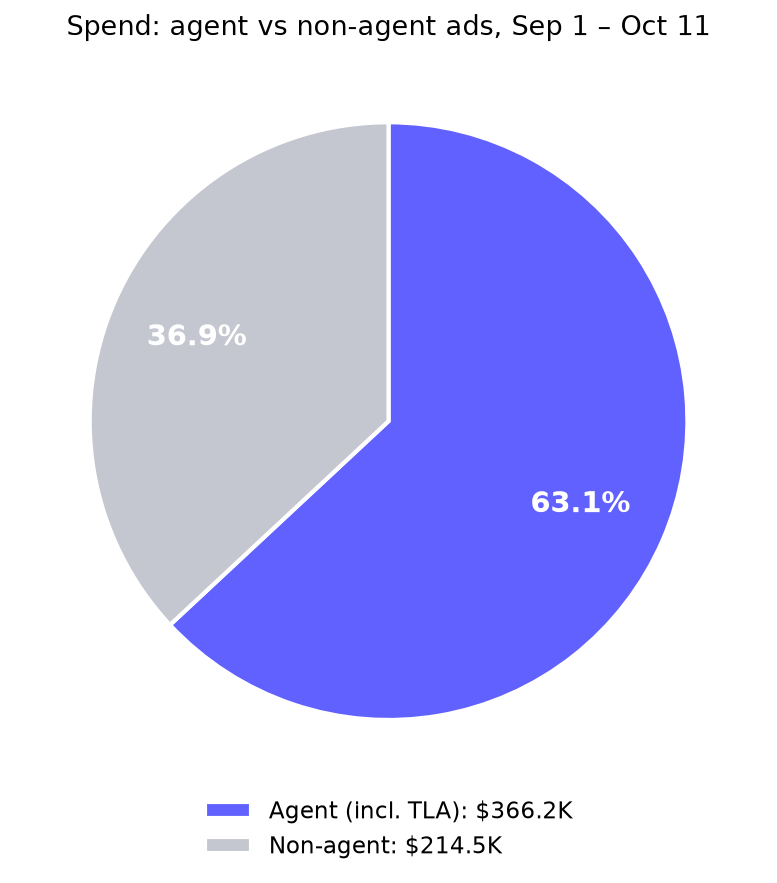
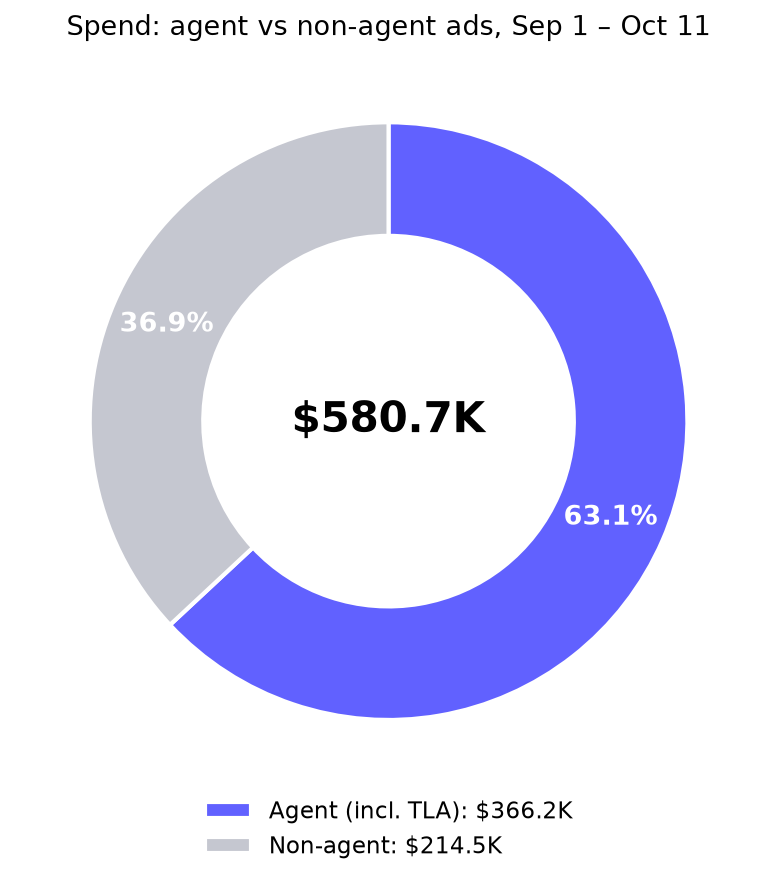
Creative analysis: slide layout per Miri's references

Changed region(s): [[0.1544, 0.2446, 0.8649, 0.7033]]

diff --git a/creative-analysis/index.html b/creative-analysis/index.html
@@ -1,36 +1,55 @@
-<!doctype html><html><head><meta charset="utf-8"><meta name="viewport" content="width=device-width,initial-scale=1"><title>WM LinkedIn creative analysis Sep 1 – Oct 11</title><style>body{font-family:Figtree,Poppins,Arial,sans-serif;max-width:1100px;margin:30px auto;padding:0 18px;color:#323338;background:#f6f7fb}h1{font-size:26px}h2{margin-top:36px;border-bottom:2px solid #6161FF;padding-bottom:6px}
-table{border-collapse:collapse;width:100%;background:#fff;margin:10px 0;font-size:14px}td,th{padding:8px 10px;border-bottom:1px solid #e6e9ef;text-align:right}td:first-child,th:first-child{text-align:left}th{background:#eef0ff}
-.note{background:#fff;border-left:4px solid #6161FF;padding:10px 14px;margin:12px 0;font-size:14px}.dim{color:#676879;font-size:12px}img.chart{max-width:100%;background:#fff;border-radius:8px;margin:8px 0}
-.grid{display:grid;grid-template-columns:repeat(auto-fill,minmax(250px,1fr));gap:14px}.card{background:#fff;border-radius:10px;overflow:hidden;box-shadow:0 1px 4px #0001}.card img{width:100%;display:block}.cb{padding:10px;font-size:13px}
-.kpi{display:flex;flex-wrap:wrap;gap:6px 12px;margin:6px 0}.cp{color:#555;font-size:12px;margin-top:6px}.two{display:grid;grid-template-columns:1fr 1fr;gap:14px}@media(max-width:700px){.two{grid-template-columns:1fr}}</style></head><body><h1>WM LinkedIn PRM: creative analysis, Sep 1 – Oct 11 2026</h1>
-<div class="dim">Source: LinkedIn in-platform (Funnel Gate get_insights, account 507706187), campaign groups 691891854 (US&CA), 1018304264 (GB), 1199048384 (Airtable). 599 creatives with spend. Hard SU = rule 18155186 Hard Signup_CAPI. QE = rule 18155194 (old CAPI QE). New CAPI events (28712650 / 30097442) not used. CPS = spend / Hard SU. Pulled Oct 12 2026.</div>
-<h2>1. Totals and by country</h2><table><tr><th></th><th>Spend</th><th>Hard SU</th><th>CPS</th><th>QE</th><th>CPQE</th><th>CPM</th></tr><tr><td>US (incl. US Airtable)</td><td>$400,500</td><td>1,475</td><td>$272</td><td>98</td><td>$4,087</td><td>$3.59</td></tr><tr><td>GB</td><td>$106,404</td><td>470</td><td>$226</td><td>43</td><td>$2,475</td><td>$3.74</td></tr><tr><td>CA</td><td>$14,640</td><td>42</td><td>$349</td><td>1</td><td>$14,640</td><td>$4.08</td></tr><tr><td>Airtable multi / EMEA</td><td>$59,150</td><td>23</td><td>$2,572</td><td>1</td><td>$59,150</td><td>$46.25</td></tr><tr><td><b>Total</b></td><td>$580,694</td><td>2,010</td><td>$289</td><td>143</td><td>$4,061</td><td>$4.01</td></tr></table>
-<div class="note">Airtable campaigns total (all geos, incl. the US Airtable ad sets counted inside US above): $69,025 · 27 Hard SU · CPS $2,556 · 1 QE.</div>
-<h2>2. Spend by format</h2><img class="chart" src="pie_format.png">
-<div class="dim">Text = text ads · TLA = the 4 thought-leader campaigns (banner + video) · Static / GIF = single-image sponsored content (by the _static / _gif ad name suffix) · Video = non-TLA video · Spotlight = dynamic spotlight. "Other banner" = 1 ad named "test" ($264).</div>
-<h2>3. Agent vs non-agent</h2><div class="two"><img class="chart" src="pie_agent.png"><div><table><tr><th></th><th>Spend</th><th>Hard SU</th><th>CPS</th><th>QE</th><th>CPQE</th><th>CPM</th></tr><tr><td>Agent (incl. TLA)</td><td>$366,173</td><td>1,232</td><td>$297</td><td>97</td><td>$3,775</td><td>$4.13</td></tr><tr><td>Non-agent</td><td>$214,521</td><td>778</td><td>$276</td><td>46</td><td>$4,664</td><td>$3.81</td></tr></table><div class="dim">Agent = ad name contains "agent" (agent_*, ugc_bambassadors_agent_*) or any TLA ad (all TLA posts are agent posts). Everything else (Airtable, Resurrect, 360_AI, use_case, emotional_*, generic text ads like "Text 1-5") = non-agent.</div></div></div>
-<img class="chart" src="wow_agent.png"><table><tr><th>Week</th><th>Agent</th><th>Non-agent</th><th>Agent share</th></tr><tr><td>Sep 1–Sep 6 (6 days)</td><td>$49,195</td><td>$25,243</td><td>66%</td></tr><tr><td>Sep 7–Sep 13</td><td>$69,213</td><td>$28,352</td><td>71%</td></tr><tr><td>Sep 14–Sep 20</td><td>$82,725</td><td>$39,749</td><td>68%</td></tr><tr><td>Sep 21–Sep 27</td><td>$77,089</td><td>$42,773</td><td>64%</td></tr><tr><td>Sep 28–Oct 4</td><td>$43,743</td><td>$42,064</td><td>51%</td></tr><tr><td>Oct 5–Oct 11</td><td>$44,208</td><td>$36,340</td><td>55%</td></tr></table>
-<h2>4. Best format: static vs GIF vs video</h2><table><tr><th></th><th>Spend</th><th>Hard SU</th><th>CPS</th><th>QE</th><th>CPQE</th><th>CPM</th></tr><tr><td>Static (all ad sets)</td><td>$165,078</td><td>356</td><td>$464</td><td>40</td><td>$4,127</td><td>$6.05</td></tr><tr><td>GIF (all ad sets)</td><td>$39,471</td><td>150</td><td>$263</td><td>9</td><td>$4,386</td><td>$3.77</td></tr><tr><td>Video (all ad sets)</td><td>$9,059</td><td>14</td><td>$647</td><td>1</td><td>$9,059</td><td>$35.64</td></tr><tr><td>Static (excl. LAN)</td><td>$72,432</td><td>65</td><td>$1,114</td><td>3</td><td>$24,144</td><td>$38.75</td></tr><tr><td>GIF (excl. LAN)</td><td>$8,509</td><td>2</td><td>$4,255</td><td>0</td><td>–</td><td>$24.92</td></tr><tr><td>Video (excl. LAN)</td><td>$9,059</td><td>14</td><td>$647</td><td>1</td><td>$9,059</td><td>$35.64</td></tr></table>
-<div class="note"><b>Like-for-like (same ad set, same audience)</b>: GIF beats static in every LAN ad set where both run.</div><table><tr><th></th><th>Spend</th><th>Hard SU</th><th>CPS</th><th>QE</th><th>CPQE</th><th>CPM</th></tr><tr><td>us-seniority-lp-banner-skills_lan · Static</td><td>$45,267</td><td>256</td><td>$177</td><td>33</td><td>$1,372</td><td>$1.99</td></tr><tr><td>us-seniority-lp-banner-skills_lan · GIF</td><td>$18,969</td><td>127</td><td>$149</td><td>6</td><td>$3,162</td><td>$2.13</td></tr><tr><td>gb-job_function-lp-banner-mop_lan · Static</td><td>$8,558</td><td>21</td><td>$408</td><td>3</td><td>$2,853</td><td>$6.37</td></tr><tr><td>gb-job_function-lp-banner-mop_lan · GIF</td><td>$5,782</td><td>19</td><td>$304</td><td>3</td><td>$1,927</td><td>$6.36</td></tr><tr><td>us-job_function-lp-banner-mop_lan · Static</td><td>$8,204</td><td>6</td><td>$1,367</td><td>1</td><td>$8,204</td><td>$10.75</td></tr><tr><td>us-job_function-lp-banner-mop_lan · GIF</td><td>$2,790</td><td>1</td><td>$2,790</td><td>0</td><td>–</td><td>$10.91</td></tr><tr><td>us-seniority-lp-banner-skills · Static</td><td>$8,934</td><td>2</td><td>$4,467</td><td>1</td><td>$8,934</td><td>$26.05</td></tr><tr><td>us-seniority-lp-banner-skills · GIF</td><td>$2,845</td><td>1</td><td>$2,845</td><td>0</td><td>–</td><td>$26.39</td></tr></table>
-<h2>5. Top 4 static ads</h2><div class="dim">Grouped by ad name across ad sets, min $2K spend, ranked by CPS. TLA excluded (own format). Media shown is from the highest-spend copy of the ad.</div><div class="grid"><div class="card"><img src="media/agent_workagent_builder_deadline_light_static.jpg" loading="lazy"><div class="cb"><b>agent_workagent_builder_deadline_light_static</b>
+<!doctype html><html><head><meta charset="utf-8"><meta name="viewport" content="width=device-width,initial-scale=1"><title>WM LinkedIn PRM creative analysis</title><style>:root{--p:#6161FF;--g:#00CA72;--r:#E2445C}body{font-family:Figtree,Poppins,Arial,sans-serif;margin:0;background:#f0f2f8;color:#323338}
+header{background:#181B34;color:#fff;padding:22px 32px}header h1{margin:0;font-size:24px}header .dim{color:#c5c7d0}
+main{max-width:1180px;margin:0 auto;padding:18px}.slide{background:#fff;border-radius:16px;padding:26px 30px;margin:20px 0;box-shadow:0 2px 8px #0000000d}
+.slide h2{margin:0 0 4px;font-size:24px}.sub{color:#676879;font-size:14px;margin-bottom:16px}.tag{float:right;background:#eef0ff;color:var(--p);border-radius:20px;padding:4px 12px;font-size:12px}
+.hl2{display:grid;grid-template-columns:1fr 1.2fr;gap:24px;align-items:center}@media(max-width:800px){.hl2,.two{grid-template-columns:1fr}}
+.big{font-size:44px;font-weight:700;color:var(--p)}.biglab{font-size:15px;color:#676879;margin-bottom:14px}
+table{border-collapse:collapse;width:100%;font-size:14px;margin:10px 0}td,th{padding:8px 10px;border-bottom:1px solid #e6e9ef;text-align:right}td:first-child,th:first-child{text-align:left}th{background:#f5f6f8}
+img.chart{max-width:100%}.dim{color:#676879;font-size:12px}.note{background:#f5f6ff;border-left:4px solid var(--p);padding:10px 14px;margin:12px 0;font-size:14px;border-radius:6px}
+.tcards{display:grid;grid-template-columns:repeat(3,1fr);gap:16px}@media(max-width:800px){.tcards{grid-template-columns:1fr}}
+.tcard{border:2px solid #e6e9ef;border-radius:14px;padding:16px}.tcard .th{font-size:20px;font-weight:700;margin-bottom:10px}.tcard .row{display:flex;justify-content:space-between;padding:6px 0;border-bottom:1px solid #f0f0f0}
+.tcard.best{border-color:var(--g);background:#f2fcf7}.tcard.best .hl b{color:#00854d}.tcard.worst .hl b{color:var(--r)}.badge{background:var(--g);color:#fff;font-size:11px;border-radius:10px;padding:2px 8px;vertical-align:middle}
+.ads{display:grid;grid-template-columns:repeat(4,1fr);gap:16px}@media(max-width:900px){.ads{grid-template-columns:repeat(2,1fr)}}.ad .fn{font-size:12px;font-weight:600;margin-bottom:6px;word-break:break-all}.ad img{width:100%;border-radius:8px;border:1px solid #e6e9ef}
+.kpi{display:flex;flex-wrap:wrap;gap:4px 12px;font-size:13px;margin:6px 0}.two{display:grid;grid-template-columns:1fr 1fr;gap:20px;align-items:center}</style></head><body><header><h1>WM LinkedIn PRM · Creative analysis</h1><div class="dim">Sep 1 – Oct 11 2026 · US&CA + GB + Airtable groups · account 507706187 · LinkedIn in-platform data · pulled Oct 12 2026</div></header><main>
+<div class="slide"><span class="tag">All ads · agent + non-agent</span><h2>High level performance</h2><div class="sub">All countries | Sep 1 – Oct 11 | 599 ads | $580,694 total spend</div>
+<div class="hl2"><div><div class="big">$289</div><div class="biglab"><b>CPS avg</b> · cost per Hard SU (18155186, old CAPI)</div>
+<div class="big">$4,061</div><div class="biglab"><b>CPQE avg</b> · cost per QE (18155194, old CAPI) · 143 QE, directional</div>
+<div class="dim">Lower is better. New CAPI events (28712650 / 30097442) are not used.</div></div><img class="chart" src="pie_format.png"></div>
+<h3>By country</h3><table><tr><th></th><th>Spend</th><th>Hard SU</th><th>CPS</th><th>QE</th><th>CPQE</th><th>CPM</th></tr><tr><td>US (incl. US Airtable)</td><td>$400,500</td><td>1,475</td><td>$272</td><td>98</td><td>$4,087</td><td>$3.59</td></tr><tr><td>GB</td><td>$106,404</td><td>470</td><td>$226</td><td>43</td><td>$2,475</td><td>$3.74</td></tr><tr><td>CA</td><td>$14,640</td><td>42</td><td>$349</td><td>1</td><td>$14,640</td><td>$4.08</td></tr><tr><td>Airtable multi / EMEA</td><td>$59,150</td><td>23</td><td>$2,572</td><td>1</td><td>$59,150</td><td>$46.25</td></tr><tr><td><b>Total</b></td><td>$580,694</td><td>2,010</td><td>$289</td><td>143</td><td>$4,061</td><td>$4.01</td></tr></table><div class="dim">US includes the US Airtable ad sets. Airtable campaigns overall: $69,025 · 27 Hard SU · CPS $2,556.</div></div>
+<div class="slide"><span class="tag">All ads · agent + non-agent</span><h2>Ad type performance</h2><div class="sub">All countries · Sep 1 – Oct 11 · excludes TLA, text, spotlight</div><div class="tcards"><div class="tcard best"><div class="th">GIF <span class="badge">★ BEST CPS</span></div>
+<div class="row"><span>Spend</span><b>$39,471</b></div><div class="row"><span>Hard SU</span><b>150</b></div>
+<div class="row hl"><span>CPS</span><b>$263</b></div><div class="row"><span>QE</span><b>9</b></div><div class="row"><span>CPQE</span><b>$4,386</b></div><div class="row"><span>CPM</span><b>$3.77</b></div></div><div class="tcard "><div class="th">Static</div>
+<div class="row"><span>Spend</span><b>$165,078</b></div><div class="row"><span>Hard SU</span><b>356</b></div>
+<div class="row hl"><span>CPS</span><b>$464</b></div><div class="row"><span>QE</span><b>40</b></div><div class="row"><span>CPQE</span><b>$4,127</b></div><div class="row"><span>CPM</span><b>$6.05</b></div></div><div class="tcard worst"><div class="th">Video</div>
+<div class="row"><span>Spend</span><b>$9,059</b></div><div class="row"><span>Hard SU</span><b>14</b></div>
+<div class="row hl"><span>CPS</span><b>$647</b></div><div class="row"><span>QE</span><b>1</b></div><div class="row"><span>CPQE</span><b>$9,059</b></div><div class="row"><span>CPM</span><b>$35.64</b></div></div></div>
+<div class="note"><b>Excluding LAN ad sets:</b> almost all GIF spend is in LAN. Outside LAN, GIF has $8.5K and 2 Hard SU, so no real read yet.</div><div class="tcards"><div class="tcard worst"><div class="th">GIF</div>
+<div class="row"><span>Spend</span><b>$8,509</b></div><div class="row"><span>Hard SU</span><b>2</b></div>
+<div class="row hl"><span>CPS</span><b>$4,255</b></div><div class="row"><span>QE</span><b>0</b></div><div class="row"><span>CPQE</span><b>–</b></div><div class="row"><span>CPM</span><b>$24.92</b></div></div><div class="tcard "><div class="th">Static</div>
+<div class="row"><span>Spend</span><b>$72,432</b></div><div class="row"><span>Hard SU</span><b>65</b></div>
+<div class="row hl"><span>CPS</span><b>$1,114</b></div><div class="row"><span>QE</span><b>3</b></div><div class="row"><span>CPQE</span><b>$24,144</b></div><div class="row"><span>CPM</span><b>$38.75</b></div></div><div class="tcard best"><div class="th">Video <span class="badge">★ BEST CPS</span></div>
+<div class="row"><span>Spend</span><b>$9,059</b></div><div class="row"><span>Hard SU</span><b>14</b></div>
+<div class="row hl"><span>CPS</span><b>$647</b></div><div class="row"><span>QE</span><b>1</b></div><div class="row"><span>CPQE</span><b>$9,059</b></div><div class="row"><span>CPM</span><b>$35.64</b></div></div></div>
+<h3>Same ad set, same audience: GIF vs static</h3><table><tr><th></th><th>Spend</th><th>Hard SU</th><th>CPS</th><th>QE</th><th>CPQE</th><th>CPM</th></tr><tr><td>us-seniority-lp-banner-skills_lan · Static</td><td>$45,267</td><td>256</td><td>$177</td><td>33</td><td>$1,372</td><td>$1.99</td></tr><tr><td>us-seniority-lp-banner-skills_lan · GIF</td><td>$18,969</td><td>127</td><td>$149</td><td>6</td><td>$3,162</td><td>$2.13</td></tr><tr><td>gb-job_function-lp-banner-mop_lan · Static</td><td>$8,558</td><td>21</td><td>$408</td><td>3</td><td>$2,853</td><td>$6.37</td></tr><tr><td>gb-job_function-lp-banner-mop_lan · GIF</td><td>$5,782</td><td>19</td><td>$304</td><td>3</td><td>$1,927</td><td>$6.36</td></tr><tr><td>us-job_function-lp-banner-mop_lan · Static</td><td>$8,204</td><td>6</td><td>$1,367</td><td>1</td><td>$8,204</td><td>$10.75</td></tr><tr><td>us-job_function-lp-banner-mop_lan · GIF</td><td>$2,790</td><td>1</td><td>$2,790</td><td>0</td><td>–</td><td>$10.91</td></tr><tr><td>us-seniority-lp-banner-skills · Static</td><td>$8,934</td><td>2</td><td>$4,467</td><td>1</td><td>$8,934</td><td>$26.05</td></tr><tr><td>us-seniority-lp-banner-skills · GIF</td><td>$2,845</td><td>1</td><td>$2,845</td><td>0</td><td>–</td><td>$26.39</td></tr></table></div>
+<div class="slide"><h2>Agent vs non-agent</h2><div class="sub">Agent = "agent" in the ad name, plus all TLA ads (all TLA posts are agent posts)</div>
+<div class="two"><img class="chart" src="pie_agent.png"><div><table><tr><th></th><th>Spend</th><th>Hard SU</th><th>CPS</th><th>QE</th><th>CPQE</th><th>CPM</th></tr><tr><td>Agent (incl. TLA)</td><td>$366,173</td><td>1,232</td><td>$297</td><td>97</td><td>$3,775</td><td>$4.13</td></tr><tr><td>Non-agent</td><td>$214,521</td><td>778</td><td>$276</td><td>46</td><td>$4,664</td><td>$3.81</td></tr></table></div></div>
+<h3>Week over week</h3><img class="chart" src="wow_agent.png"><table><tr><th>Week</th><th>Agent</th><th>Non-agent</th><th>Agent share</th></tr><tr><td>Sep 1–Sep 6 (6 days)</td><td>$49,195</td><td>$25,243</td><td>66%</td></tr><tr><td>Sep 7–Sep 13</td><td>$69,213</td><td>$28,352</td><td>71%</td></tr><tr><td>Sep 14–Sep 20</td><td>$82,725</td><td>$39,749</td><td>68%</td></tr><tr><td>Sep 21–Sep 27</td><td>$77,089</td><td>$42,773</td><td>64%</td></tr><tr><td>Sep 28–Oct 4</td><td>$43,743</td><td>$42,064</td><td>51%</td></tr><tr><td>Oct 5–Oct 11</td><td>$44,208</td><td>$36,340</td><td>55%</td></tr></table></div>
+<div class="slide"><h2>Top static ads</h2><div class="sub">Grouped by ad name across ad sets · min $2K spend · ranked by CPS · TLA excluded</div><div class="ads"><div class="ad"><div class="fn">agent_workagent_builder_deadline_light_static</div><img src="media/agent_workagent_builder_deadline_light_static.jpg" loading="lazy">
 <div class="kpi"><span>CPS <b>$127</b></span><span>Hard SU <b>18</b></span><span>Spend <b>$2,291</b></span><span>CPQE <b>–</b></span><span>CPM <b>$2.60</b></span></div>
-<div class="dim">5 ads in: gb-job_function-lp-banner-mop_lan, us-seniority-lp-banner-skills, us-seniority-lp-banner-skills_lan, us-seniority-lp-banner-tla_audience</div><div class="cp">With the AI-powered agents on monday.com, you can set the direction and let your Digital Workforce handle the repetitive tasks. It’s the easiest way to keep all your work moving forward, automatically.…</div></div></div><div class="card"><img src="media/agent_aimarketing_campaign-planning_brief_dark_static.jpg" loading="lazy"><div class="cb"><b>agent_aimarketing_campaign-planning_brief_dark_static</b>
+<div class="dim">5 ads · gb-job_function-lp-banner-mop_lan, us-seniority-lp-banner-skills, us-seniority-lp-banner-skills_lan, us-seniority-lp-banner-tla_audience</div></div><div class="ad"><div class="fn">agent_aimarketing_campaign-planning_brief_dark_static</div><img src="media/agent_aimarketing_campaign-planning_brief_dark_static.jpg" loading="lazy">
 <div class="kpi"><span>CPS <b>$165</b></span><span>Hard SU <b>52</b></span><span>Spend <b>$8,568</b></span><span>CPQE <b>$2,856</b></span><span>CPM <b>$2.14</b></span></div>
-<div class="dim">4 ads in: us-job_function-lp-banner-mop_lan, us-seniority-lp-banner-skills_lan, us-seniority-lp-banner-tla_audience</div><div class="cp">Connect marketing efforts to business results. On monday.com, you set the strategy and AI agents execute the work across your department. This creates total visibility, empowering you to prove your team&#x27;s results and make decisions that drive business growth.
-…</div></div></div><div class="card"><img src="media/agent_aipmo_generic_usersagents_static.jpg" loading="lazy"><div class="cb"><b>agent_aipmo_generic_usersagents_static</b>
+<div class="dim">4 ads · us-job_function-lp-banner-mop_lan, us-seniority-lp-banner-skills_lan, us-seniority-lp-banner-tla_audience</div></div><div class="ad"><div class="fn">agent_aipmo_generic_usersagents_static</div><img src="media/agent_aipmo_generic_usersagents_static.jpg" loading="lazy">
 <div class="kpi"><span>CPS <b>$194</b></span><span>Hard SU <b>28</b></span><span>Spend <b>$5,429</b></span><span>CPQE <b>$2,715</b></span><span>CPM <b>$2.56</b></span></div>
-<div class="dim">4 ads in: gb-job_function-lp-banner-mop_lan, us-job_function-lp-banner-mop_lan, us-seniority-lp-banner-skills, us-seniority-lp-banner-skills_lan</div><div class="cp">Supercharge your PMO. On monday.com, project managers and AI agents collaborate to mitigate risks and move complex portfolios forward, faster.…</div></div></div><div class="card"><img src="media/agent_general_generic_horizontal_inbox-agent_static.jpg" loading="lazy"><div class="cb"><b>agent_general_generic_horizontal_inbox-agent_static</b>
+<div class="dim">4 ads · gb-job_function-lp-banner-mop_lan, us-job_function-lp-banner-mop_lan, us-seniority-lp-banner-skills, us-seniority-lp-banner-skills_lan</div></div><div class="ad"><div class="fn">agent_general_generic_horizontal_inbox-agent_static</div><img src="media/agent_general_generic_horizontal_inbox-agent_static.jpg" loading="lazy">
 <div class="kpi"><span>CPS <b>$201</b></span><span>Hard SU <b>27</b></span><span>Spend <b>$5,418</b></span><span>CPQE <b>$2,709</b></span><span>CPM <b>$2.58</b></span></div>
-<div class="dim">5 ads in: gb-job_function-lp-banner-mop_lan, us-job_function-lp-banner-mop_lan, us-seniority-lp-banner-skills, us-seniority-lp-banner-skills_lan, us-seniority-lp-banner-tla_audience</div><div class="cp">Repetitive tasks slow down your real work. With The AI Work Space from monday.com, people and agents collaborate as one team. Free your team to focus on what matters.…</div></div></div></div>
-<h2>Top 4 GIF ads</h2><div class="grid"><div class="card"><img src="media/agent_builder_builder_light_gif.gif" loading="lazy"><div class="cb"><b>agent_builder_builder_light_gif</b>
+<div class="dim">5 ads · gb-job_function-lp-banner-mop_lan, us-job_function-lp-banner-mop_lan, us-seniority-lp-banner-skills, us-seniority-lp-banner-skills_lan, us-seniority-lp-banner-tla_audience</div></div></div></div>
+<div class="slide"><h2>Top GIF ads</h2><div class="sub">Same rules</div><div class="ads"><div class="ad"><div class="fn">agent_builder_builder_light_gif</div><img src="media/agent_builder_builder_light_gif.gif" loading="lazy">
 <div class="kpi"><span>CPS <b>$143</b></span><span>Hard SU <b>16</b></span><span>Spend <b>$2,284</b></span><span>CPQE <b>–</b></span><span>CPM <b>$3.41</b></span></div>
-<div class="dim">6 ads in: gb-job_function-lp-banner-mop_lan, us-job_function-lp-banner-mop_lan, us-seniority-lp-banner-skills, us-seniority-lp-banner-skills_lan, us-seniority-lp-banner-tla_audience</div><div class="cp">Imagine an agent that preps your weekly reports or organizes customer feedback automatically. That’s the idea. 
-On monday.com, people and agents collaborate as one team to take on any project. It’s all your work, now moving faster.…</div></div></div><div class="card"><img src="media/agent_aimarketing_campaign-planning_brief_light_gif.gif" loading="lazy"><div class="cb"><b>agent_aimarketing_campaign-planning_brief_light_gif</b>
+<div class="dim">6 ads · gb-job_function-lp-banner-mop_lan, us-job_function-lp-banner-mop_lan, us-seniority-lp-banner-skills, us-seniority-lp-banner-skills_lan, us-seniority-lp-banner-tla_audience</div></div><div class="ad"><div class="fn">agent_aimarketing_campaign-planning_brief_light_gif</div><img src="media/agent_aimarketing_campaign-planning_brief_light_gif.gif" loading="lazy">
 <div class="kpi"><span>CPS <b>$163</b></span><span>Hard SU <b>15</b></span><span>Spend <b>$2,442</b></span><span>CPQE <b>–</b></span><span>CPM <b>$2.69</b></span></div>
-<div class="dim">2 ads in: us-job_function-lp-banner-mop_lan, us-seniority-lp-banner-skills_lan</div><div class="cp">Connect marketing efforts to business results. On monday.com, you set the strategy and AI agents execute the work across your department. This creates total visibility, empowering you to prove your team&#x27;s results and make decisions that drive business growth.
-…</div></div></div><div class="card"><img src="media/agent_builder_builder_dark_gif.gif" loading="lazy"><div class="cb"><b>agent_builder_builder_dark_gif</b>
+<div class="dim">2 ads · us-job_function-lp-banner-mop_lan, us-seniority-lp-banner-skills_lan</div></div><div class="ad"><div class="fn">agent_builder_builder_dark_gif</div><img src="media/agent_builder_builder_dark_gif.gif" loading="lazy">
 <div class="kpi"><span>CPS <b>$190</b></span><span>Hard SU <b>13</b></span><span>Spend <b>$2,468</b></span><span>CPQE <b>–</b></span><span>CPM <b>$2.60</b></span></div>
-<div class="dim">4 ads in: gb-job_function-lp-banner-mop_lan, us-job_function-lp-banner-mop_lan, us-seniority-lp-banner-skills, us-seniority-lp-banner-skills_lan</div><div class="cp">Imagine an agent that preps your weekly reports or organizes customer feedback automatically. That’s the idea. 
-On monday.com, people and agents collaborate as one team to take on any project. It’s all your work, now moving faster.…</div></div></div><div class="card"><img src="media/agent_workagent_builder_deadline_dark_gif.gif" loading="lazy"><div class="cb"><b>agent_workagent_builder_deadline_dark_gif</b>
+<div class="dim">4 ads · gb-job_function-lp-banner-mop_lan, us-job_function-lp-banner-mop_lan, us-seniority-lp-banner-skills, us-seniority-lp-banner-skills_lan</div></div><div class="ad"><div class="fn">agent_workagent_builder_deadline_dark_gif</div><img src="media/agent_workagent_builder_deadline_dark_gif.gif" loading="lazy">
 <div class="kpi"><span>CPS <b>$200</b></span><span>Hard SU <b>14</b></span><span>Spend <b>$2,805</b></span><span>CPQE <b>$1,403</b></span><span>CPM <b>$2.43</b></span></div>
-<div class="dim">4 ads in: gb-job_function-lp-banner-mop_lan, us-job_function-lp-banner-mop_lan, us-seniority-lp-banner-skills, us-seniority-lp-banner-skills_lan</div><div class="cp">With the AI-powered agents on monday.com, you can set the direction and let your Digital Workforce handle the repetitive tasks. It’s the easiest way to keep all your work moving forward, automatically.…</div></div></div></div></body></html>
+<div class="dim">4 ads · gb-job_function-lp-banner-mop_lan, us-job_function-lp-banner-mop_lan, us-seniority-lp-banner-skills, us-seniority-lp-banner-skills_lan</div></div></div></div>
+</main></body></html>
